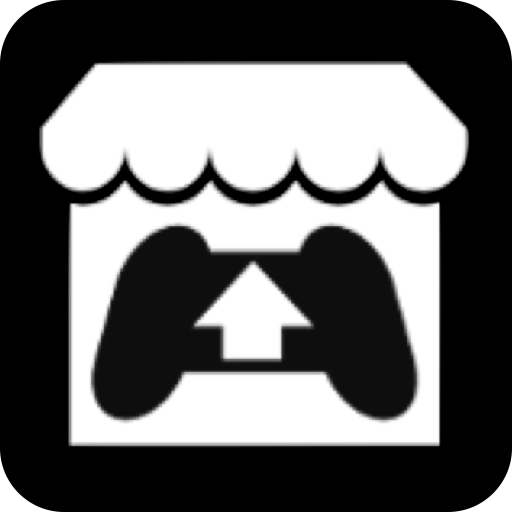
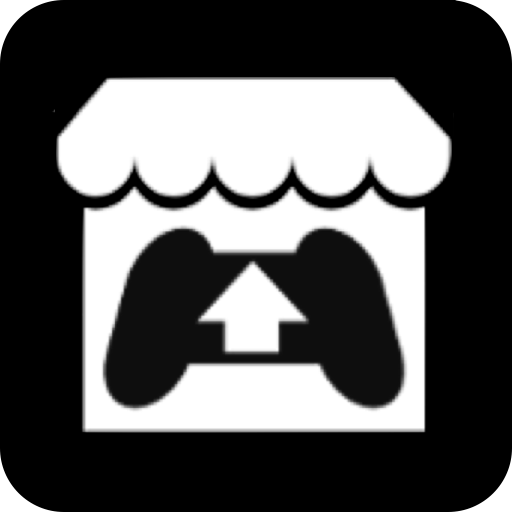
Margins, images
Optimized margins and image sizes, removed bg.png, edited itch.png proportions.

diff --git a/css/format.css b/css/format.css
@@ -2,7 +2,7 @@
 #title{
      text-transform:uppercase;
      color:white;
-     font-size:22px;
+     font-size:25px;
      font-family:Menlo;
      display:block;
      margin:auto;
@@ -34,7 +34,7 @@ body{
     margin-bottom: 12px;
 }
 .feedItem{
-    margin:75px;
+    margin:85px;
 }
 .red{
     border-color:red;
@@ -62,7 +62,7 @@ body{
 }
 #iconsLarge img {
   padding: 50px;
-  width: 56px;
+  width: 65px;
   opacity: 1.0;
   transition: opacity .55s ease-in-out;
   -moz-transition: opacity .55s ease-in-out;
@@ -75,7 +75,7 @@ body{
         -webkit-transition: opacity .55s ease-in-out;
 }
 #iconsSmall img {
-  width: 36px;
+  width: 45px;
   padding: 5px;
   margin-top: 50px;
   margin-bottom:100px;
